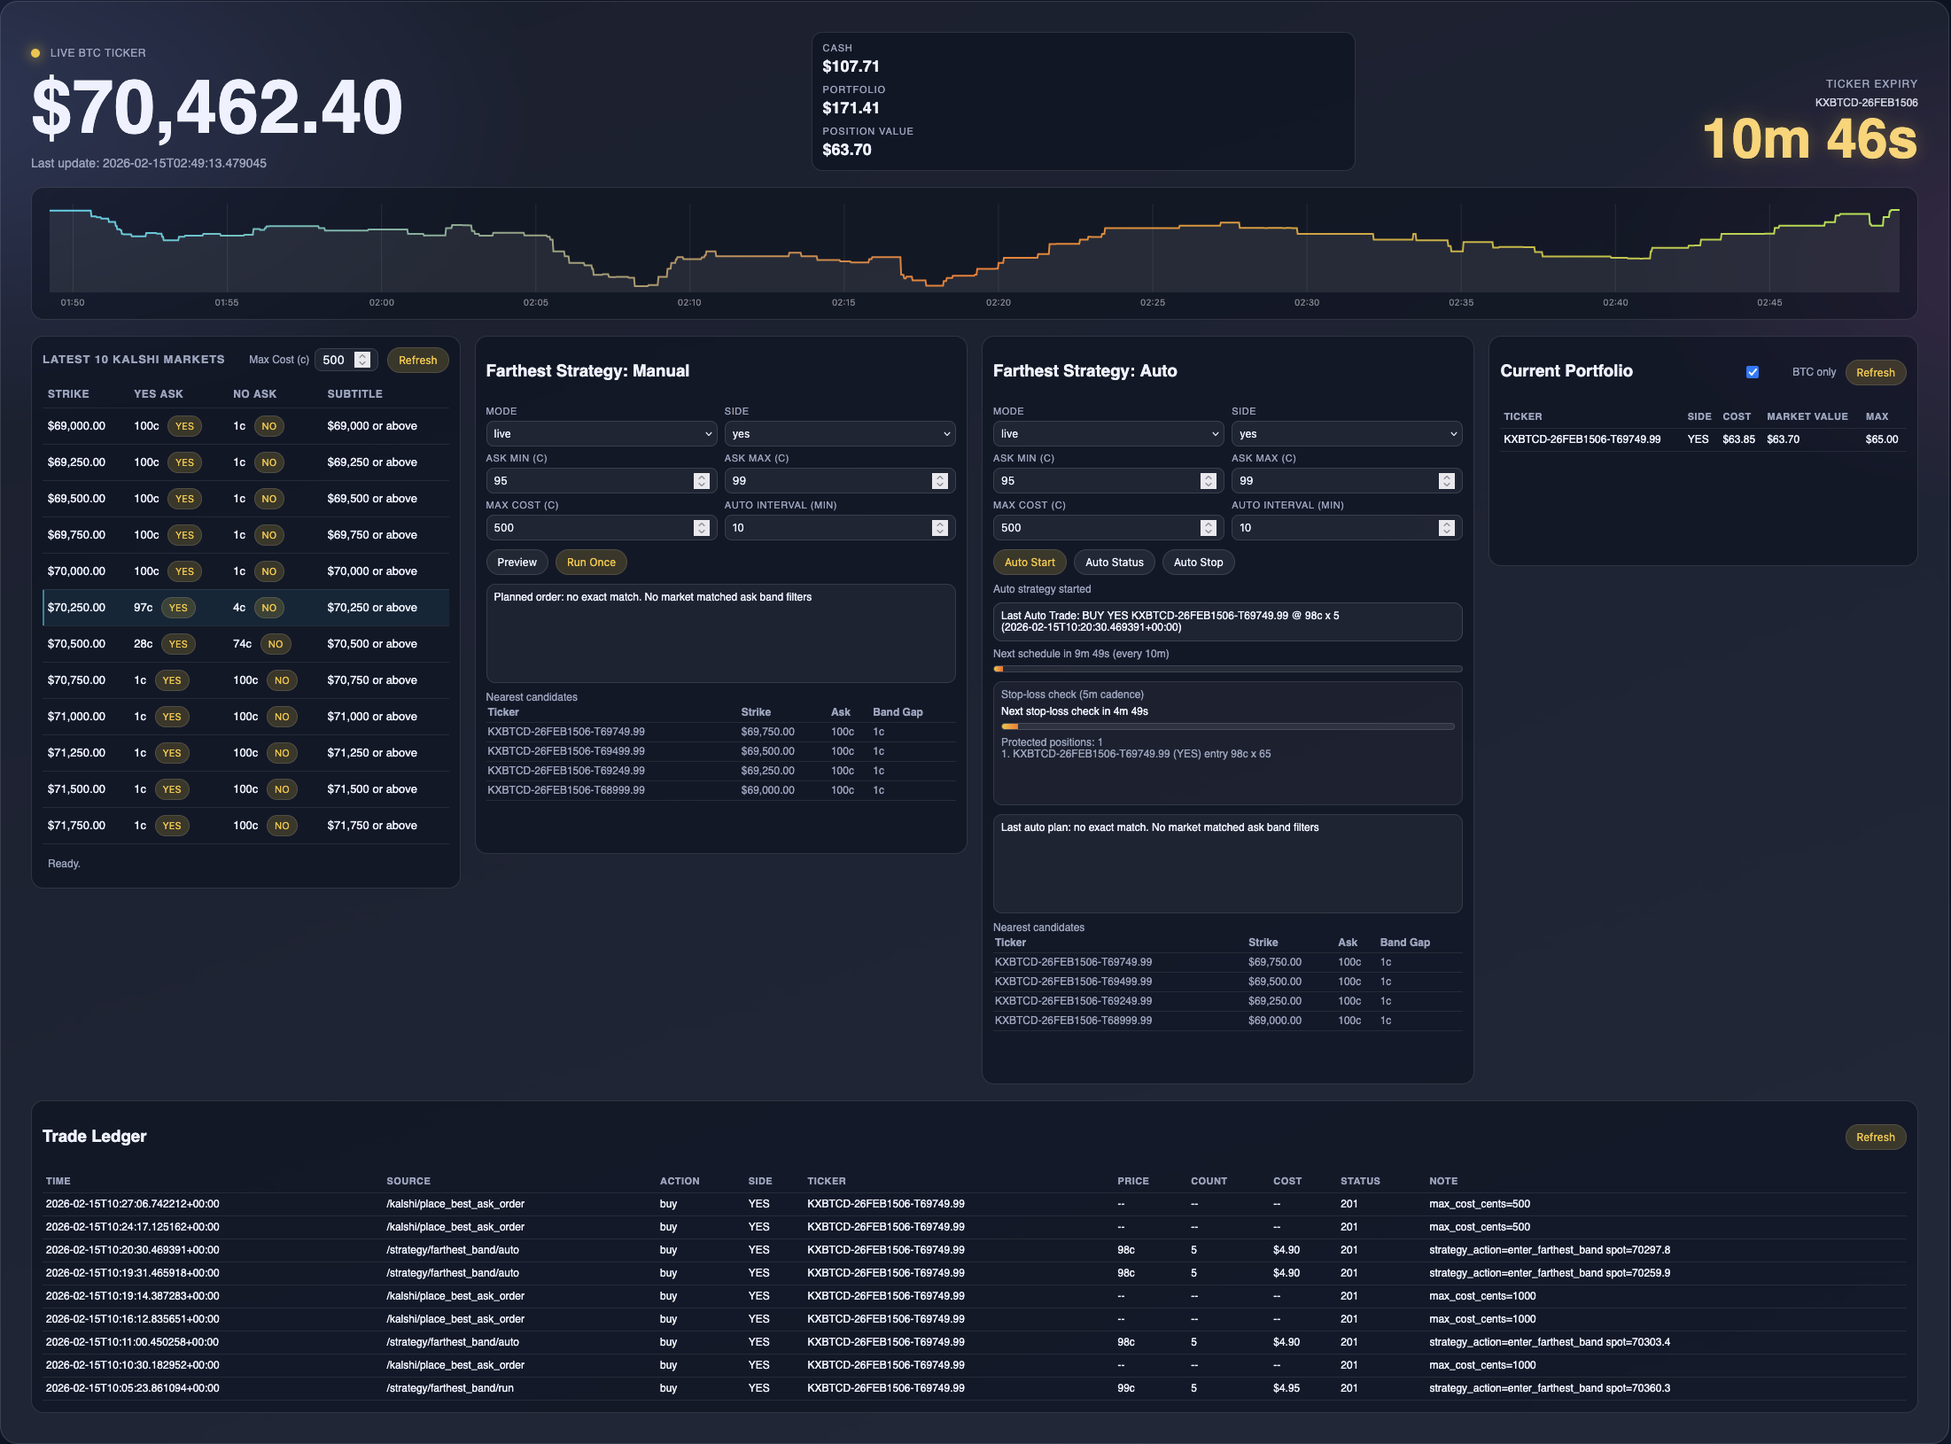
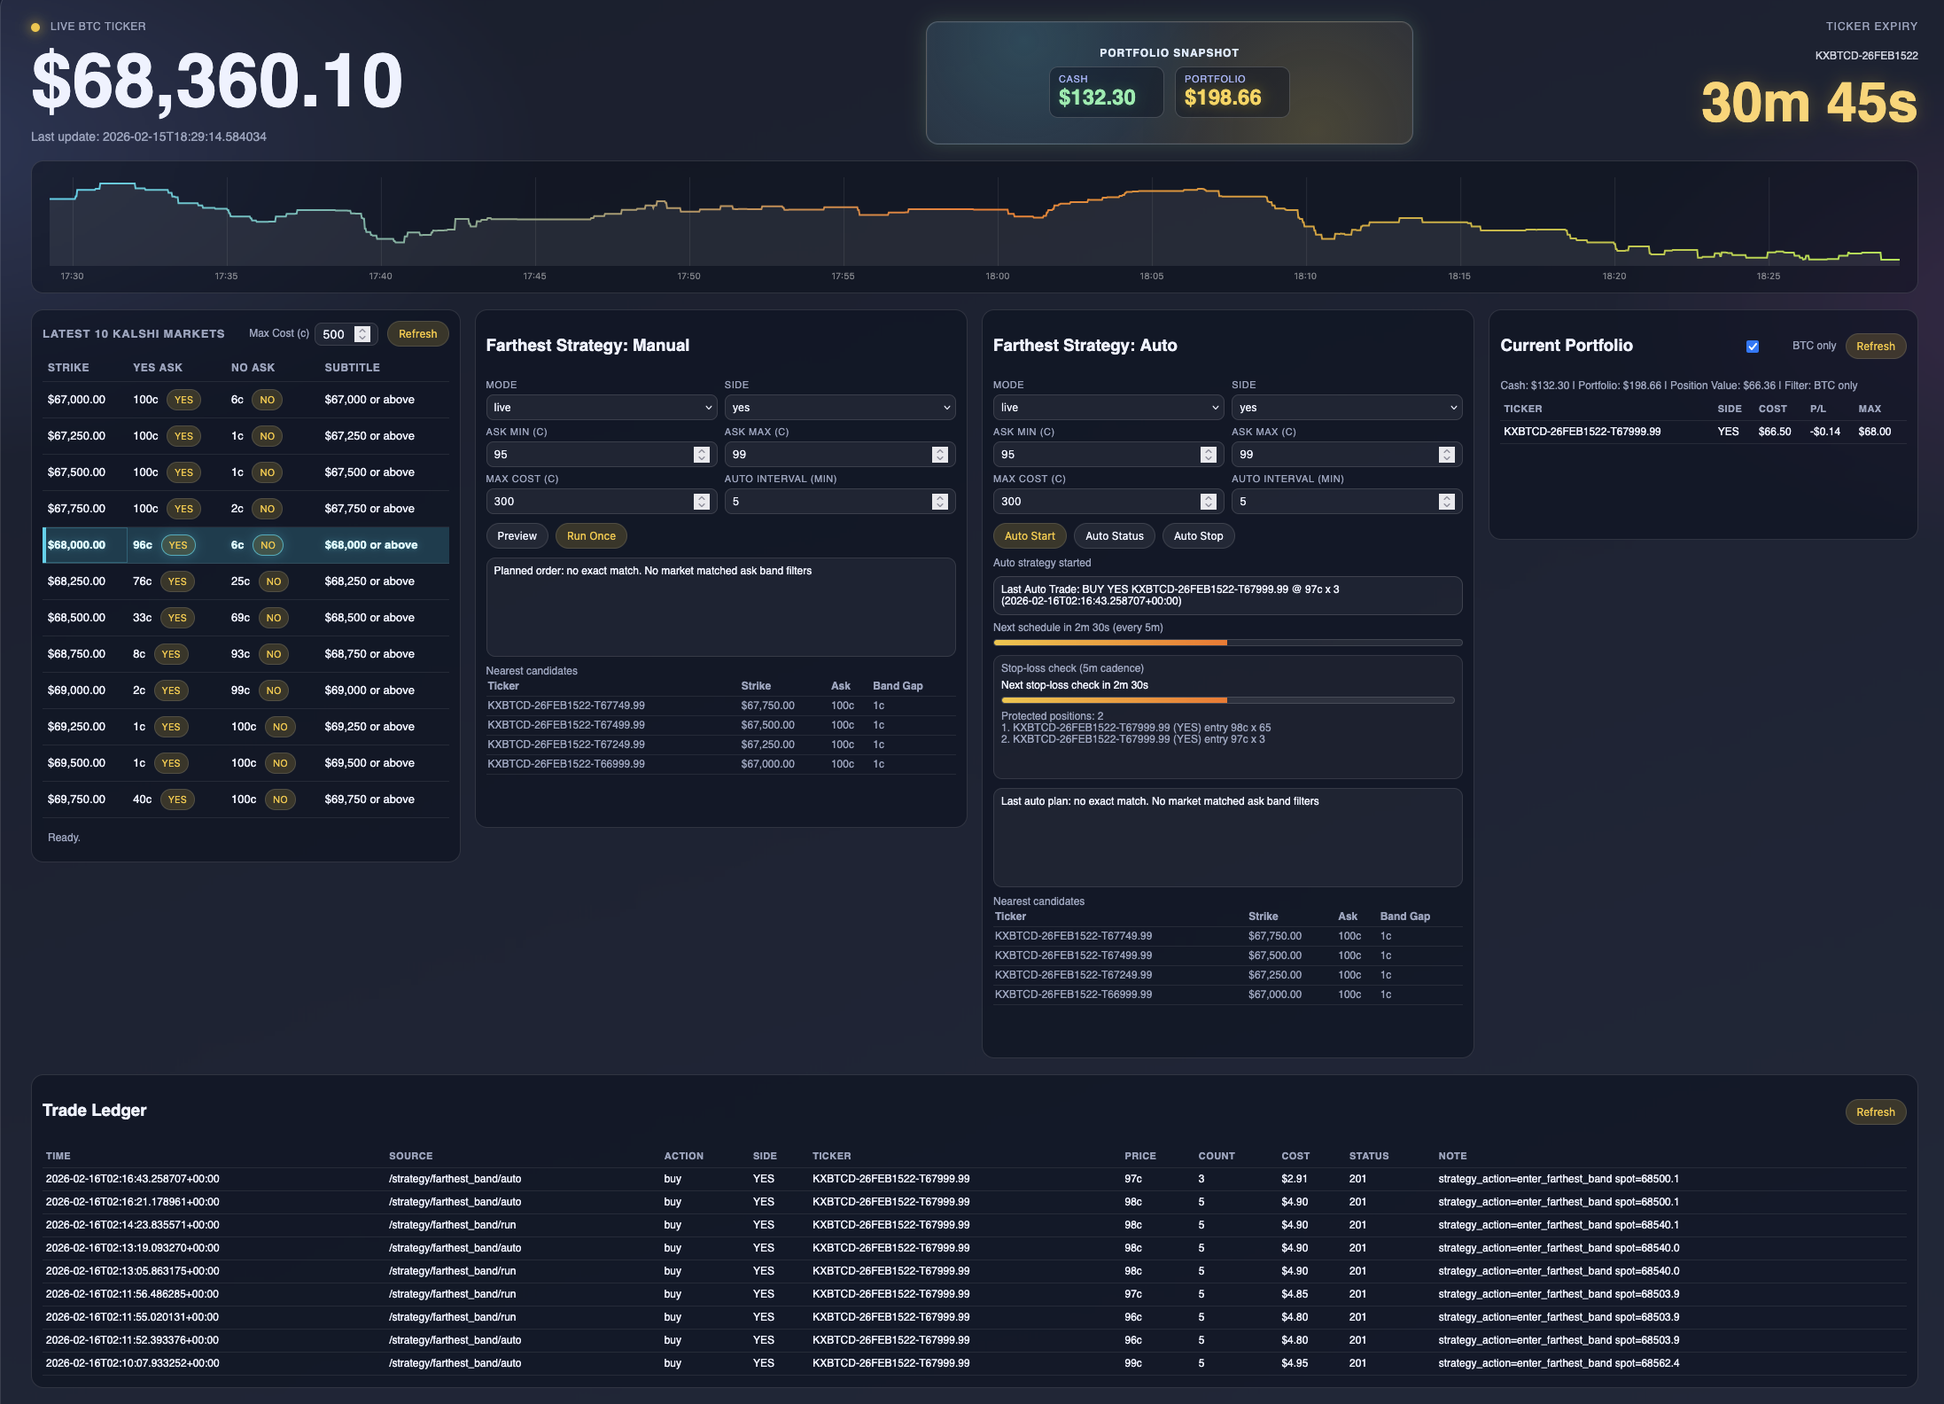
feat: Enforce Stop loss at market price

diff --git a/src/api.py b/src/api.py
@@ -1424,9 +1424,70 @@ def dashboard():
       }
       .hero {
         display: grid;
-        grid-template-columns: minmax(0, 1.8fr) minmax(0, 1fr);
+        grid-template-columns: minmax(0, 1.8fr) minmax(0, 1fr) minmax(0, 1fr);
         gap: 20px;
-        align-items: end;
+        align-items: stretch;
+      }
+      .hero-balance {
+        display: grid;
+        align-content: center;
+        justify-items: center;
+        gap: 8px;
+        background:
+          radial-gradient(circle at 20% 15%, rgba(34, 211, 238, 0.18), transparent 50%),
+          radial-gradient(circle at 80% 90%, rgba(250, 204, 21, 0.16), transparent 48%),
+          rgba(255, 255, 255, 0.05);
+        border: 1px solid rgba(255, 255, 255, 0.2);
+        border-radius: 14px;
+        padding: 16px 18px;
+        min-height: 120px;
+        box-shadow:
+          inset 0 0 0 1px rgba(255, 255, 255, 0.04),
+          0 0 20px rgba(34, 211, 238, 0.12),
+          0 0 24px rgba(250, 204, 21, 0.1);
+      }
+      .hero-balance-label {
+        color: #dbeafe;
+        font-size: 12px;
+        text-transform: uppercase;
+        letter-spacing: 0.08em;
+        font-weight: 700;
+      }
+      .hero-balance-values {
+        display: flex;
+        gap: 12px;
+        align-items: baseline;
+        flex-wrap: wrap;
+        justify-content: center;
+      }
+      .hero-balance-item {
+        display: grid;
+        gap: 2px;
+        padding: 8px 10px;
+        border-radius: 10px;
+        border: 1px solid rgba(255, 255, 255, 0.18);
+        background: rgba(8, 16, 32, 0.45);
+        min-width: 130px;
+      }
+      .hero-balance-key {
+        color: #a5b4fc;
+        font-size: 11px;
+        text-transform: uppercase;
+        letter-spacing: 0.06em;
+      }
+      .hero-balance-val {
+        color: #e2e8f0;
+        font-size: 24px;
+        font-weight: 700;
+        line-height: 1.1;
+      }
+      #hero-cash {
+        color: #86efac;
+        text-shadow: 0 0 14px rgba(34, 197, 94, 0.32);
+      }
+      #hero-portfolio {
+        color: #fcd34d;
+        text-shadow: 0 0 16px rgba(250, 204, 21, 0.35);
       }
       .expiry-card {
         display: grid;
@@ -1675,10 +1736,17 @@ def dashboard():
         margin-left: 6px;
       }
       .markets tr.row-hot td {
-        background: rgba(34, 211, 238, 0.08);
+        background: rgba(34, 211, 238, 0.2);
+        color: #d8fbff;
+        font-weight: 700;
+        text-shadow: 0 0 8px rgba(34, 211, 238, 0.35);
       }
       .markets tr.row-hot td:first-child {
-        box-shadow: inset 2px 0 0 rgba(34, 211, 238, 0.55);
+        box-shadow: inset 4px 0 0 #22d3ee, inset 0 0 0 1px rgba(34, 211, 238, 0.25);
+      }
+      .markets tr.row-hot td .btn.trade {
+        border-color: rgba(34, 211, 238, 0.7);
+        box-shadow: 0 0 12px rgba(34, 211, 238, 0.25);
       }
       .markets tr.row-pending td {
         background: rgba(244, 196, 48, 0.12);
@@ -1845,6 +1913,7 @@ def dashboard():
       @media (max-width: 520px) {
         .card { padding: 22px; }
         .hero { grid-template-columns: 1fr; }
+        .hero-balance { justify-items: start; }
         .expiry-card { justify-items: start; }
         .top-panels {
           grid-template-columns: 1fr;
@@ -1869,6 +1938,19 @@ def dashboard():
               </div>
               <div id="price" class="price">$--</div>
               <div id="ts" class="sub">Last update: --</div>
+            </div>
+            <div class="hero-balance">
+              <div class="hero-balance-label">Portfolio Snapshot</div>
+              <div class="hero-balance-values">
+                <div class="hero-balance-item">
+                  <div class="hero-balance-key">Cash</div>
+                  <div id="hero-cash" class="hero-balance-val">$--</div>
+                </div>
+                <div class="hero-balance-item">
+                  <div class="hero-balance-key">Portfolio</div>
+                  <div id="hero-portfolio" class="hero-balance-val">$--</div>
+                </div>
+              </div>
             </div>
             <div class="expiry-card">
               <div class="expiry-label">Ticker Expiry</div>
@@ -2101,6 +2183,8 @@ def dashboard():
       const tsEl = document.getElementById("ts");
       const eventExpiryEl = document.getElementById("event-expiry");
       const eventTickerNameEl = document.getElementById("event-ticker-name");
+      const heroCashEl = document.getElementById("hero-cash");
+      const heroPortfolioEl = document.getElementById("hero-portfolio");
       const canvas = document.getElementById("chart");
       const ctx = canvas.getContext("2d");
       const chartTooltipEl = document.getElementById("chart-tooltip");
@@ -2338,18 +2422,32 @@ def dashboard():
 
       function extractTradeErrorText(data, fallbackStatus) {
         const statusTxt = fallbackStatus ? `HTTP ${fallbackStatus}` : "HTTP error";
+        const objectToMsg = (obj) => {
+          if (!obj || typeof obj !== "object") return "";
+          const msg = obj.error || obj.message || obj.detail || obj.reason || obj.title;
+          const code = obj.error_code || obj.code || obj.status || obj.status_code;
+          if (msg && code) return `${code}: ${msg}`;
+          if (msg) return String(msg);
+          try { return JSON.stringify(obj); } catch (_) { return ""; }
+        };
         if (!data) return statusTxt;
-        if (data.error) return `${statusTxt}${data.stage ? ` [${data.stage}]` : ""}: ${String(data.error)}`;
+        if (data.error) {
+          const errMsg = (typeof data.error === "object") ? objectToMsg(data.error) : String(data.error);
+          return `${statusTxt}${data.stage ? ` [${data.stage}]` : ""}: ${(errMsg || "Unknown error").slice(0, 220)}`;
+        }
         if (data.raw_response && String(data.raw_response).trim()) {
           return `${statusTxt}: ${String(data.raw_response).trim().slice(0, 220)}`;
         }
         const body = data.response;
         if (typeof body === "string" && body.trim()) return `${statusTxt}: ${body.trim().slice(0, 220)}`;
         if (body && typeof body === "object") {
-          const msg = body.error || body.message || body.detail || body.reason;
-          const code = body.error_code || body.code;
-          if (msg && code) return `${statusTxt} ${code}: ${msg}`;
-          if (msg) return `${statusTxt}: ${String(msg)}`;
+          const nestedError = (typeof body.error === "object") ? body.error : null;
+          if (nestedError) {
+            const nestedMsg = objectToMsg(nestedError);
+            if (nestedMsg) return `${statusTxt}: ${nestedMsg.slice(0, 220)}`;
+          }
+          const msg = objectToMsg(body);
+          if (msg) return `${statusTxt}: ${msg.slice(0, 220)}`;
           try { return `${statusTxt}: ${JSON.stringify(body).slice(0, 220)}`; } catch (_) {}
         }
         if (data.status_code) return `HTTP ${data.status_code}`;
@@ -2846,6 +2944,8 @@ def dashboard():
           const cash = formatCents(cashCents);
           const portfolio = formatCents(portfolioDisplayCents);
           const positionValue = formatCents(positionValueCents);
+          if (heroCashEl) heroCashEl.textContent = cash;
+          if (heroPortfolioEl) heroPortfolioEl.textContent = portfolio;
           portfolioSummaryEl.textContent = `Cash: ${cash} | Portfolio: ${portfolio} | Position Value: ${positionValue}${btcOnly ? " | Filter: BTC only" : ""}`;
 
           if (!orders.length) {
@@ -2870,6 +2970,8 @@ def dashboard():
           }).join("");
           portfolioBody.innerHTML = rows;
         } catch (err) {
+          if (heroCashEl) heroCashEl.textContent = "$--";
+          if (heroPortfolioEl) heroPortfolioEl.textContent = "$--";
           portfolioSummaryEl.textContent = "Failed to load portfolio.";
           portfolioBody.innerHTML = "<tr><td colspan=\\"5\\">Error loading orders.</td></tr>";
         }

diff --git a/src/strategy/farthest_band.py b/src/strategy/farthest_band.py
@@ -305,7 +305,13 @@ def _enter_position(client: KalshiClient, selection: dict, config: FarthestBandC
     }
 
 
-def _exit_position(client: KalshiClient, active_position: dict, config: FarthestBandConfig, reason: str) -> dict:
+def _exit_position(
+    client: KalshiClient,
+    active_position: dict,
+    config: FarthestBandConfig,
+    reason: str,
+    market_like: bool = False,
+) -> dict:
     side = str(active_position.get("side") or "").lower()
     count = int(active_position.get("count") or 0)
     if side not in {"yes", "no"} or count < 1:
@@ -313,7 +319,9 @@ def _exit_position(client: KalshiClient, active_position: dict, config: Farthest
 
     top = client.get_top_of_book(active_position["ticker"])
     bid_cents = top.get(f"{side}_bid")
-    if bid_cents is None:
+    # For stop-loss we want market-like behavior: sell at executable bid only.
+    # For other exits we keep legacy ask fallback.
+    if bid_cents is None and not market_like:
         bid_cents = top.get(f"{side}_ask")
     if bid_cents is None or int(bid_cents) < 1:
         return {"action": "hold", "reason": "No bid/mark available to exit", "top_of_book": top}
@@ -397,8 +405,15 @@ def run_farthest_band_cycle(
 
         mark_state = _mark_price_and_pnl(client, active)
         pnl_pct = mark_state.get("pnl_pct")
-        if pnl_pct is not None and pnl_pct <= -stop_loss_pct:
-            exit_result = _exit_position(client, active, config, reason="stop_loss_exit")
+        # Trigger only when loss is strictly greater than stop_loss_pct.
+        if pnl_pct is not None and pnl_pct < -stop_loss_pct:
+            exit_result = _exit_position(
+                client,
+                active,
+                config,
+                reason="stop_loss_exit",
+                market_like=True,
+            )
             if exit_result.get("action") == "hold":
                 return {
                     "action": "hold_active",

diff --git a/README.md b/README.md
@@ -7,23 +7,39 @@ The core objective is to evolve from signal collection into automated, risk-awar
 ## Dashboard
 ![Dashboard 1](Dashboard.png)
 
-The dashboard shows:
-- Live BTC price and timestamp
-- Last hour price curve
-- High/low stats
-- Latest Kalshi markets for the current event
-- One-click YES/NO buttons per market with a configurable max cost (cents)
-- Current portfolio panel with balance and open positions (cost, P/L, max payout) and refresh button
-- Two farthest-band strategy panels (side by side on desktop):
-  - `Farthest Strategy: Manual` for Preview + Run Once
-  - `Farthest Strategy: Auto` for Auto Start/Status/Stop and schedule progress
-  - Both panels expose the same config controls (`mode`, `side`, ask band, max cost, interval) and stay synchronized
-  - Manual and Auto each have separate plan/candidate output boxes
-  - Auto panel includes next-schedule countdown, progress bar, and last auto trade badge
-  - 1-second preview refresh updates probable next order continuously
-- Trade Ledger panel:
-  - Shows recent buy/sell calls from direct and strategy routes
-  - Includes a dedicated refresh button to reload latest entries
+The dashboard includes:
+- Live BTC price, timestamp, event ticker, and large expiry countdown.
+- Top-middle portfolio snapshot (Cash + Portfolio) beside BTC/expiry.
+- Compact BTC trend graph with hover tooltip (time + price).
+- `Latest 10 Kalshi Markets` panel:
+  - One-click YES/NO order buttons.
+  - Configurable `Max Cost (c)`.
+  - Bright row highlighting for rows where YES ask is in the 90-99c band.
+  - Inline error/success status with per-row pending/error/success highlighting.
+- Four top panels in one row on desktop:
+  - `Latest 10 Kalshi Markets`
+  - `Farthest Strategy: Manual`
+  - `Farthest Strategy: Auto`
+  - `Current Portfolio`
+- `Farthest Strategy: Manual`:
+  - `Preview` + `Run Once`.
+  - Planned order and nearest-candidates output.
+- `Farthest Strategy: Auto`:
+  - `Auto Start`, `Auto Status`, `Auto Stop`.
+  - Next scheduled-run countdown + progress bar.
+  - Stop-loss schedule panel (next risk check + protected positions).
+  - Last auto trade badge.
+  - Planned order and nearest-candidates output.
+- `Current Portfolio`:
+  - BTC-only filter toggle.
+  - Auto-refresh every 3 seconds.
+  - Per-position table (side/cost/P/L/max) and summary.
+- `Trade Ledger`:
+  - Recorded buy/sell legs from direct order route and strategy paths.
+  - Includes source, mode, action, price/count/cost, status, and note.
+- `P/L Summary (All Orders)`:
+  - Realized/unrealized/net/fees totals.
+  - Per-market breakdown from historical fills/orders.
 
 
 ## Highlights
@@ -32,6 +48,8 @@ The dashboard shows:
 - Continuous ingest pipeline with SQLite storage.
 - FastAPI service with JSON endpoints and a built-in dashboard.
 - Persistent trade ledger in SQLite for buy/sell calls (timestamp, price, side, ticker, status, payload).
+- Strategy auto state with seeded active positions from live portfolio.
+- FIFO-style realized/unrealized/net P/L summary from historical orders.
 
 ## Requirements
 - Python 3.11+
@@ -73,10 +91,10 @@ Notes:
 
 ### 4) Run the API server + dashboard
 ```bash
-python -m src.api
+python3 -m src.api
 ```
 - This continuously writes market snapshots to `data/kalshi_ingest.db` (once per second) and prunes data older than 24 hours.
-- Then open:- `http://localhost:8090/dashboard`
+- Then open: `http://localhost:8090/dashboard`
 
 ## API Endpoints
 - `GET /get_price_ticker`
@@ -93,6 +111,9 @@ python -m src.api
   - Returns current orders (filter with `status`, `ticker`, `limit`).
 - `GET /kalshi/portfolio/current`
   - Returns portfolio balance and current positions/orders with estimated cost, mark-based P/L, and max payout.
+- `GET /kalshi/pnl/summary`
+  - Aggregates order history into buys/sells/fees plus realized, unrealized, and net P/L.
+  - Includes per-market breakdown and diagnostics (`orders_considered`, `fills_count`, etc.).
 - `GET /kalshi/portfolio/positions_debug`
   - Returns raw positions payload plus a small sample for debugging field mappings.
 - `GET /strategy/farthest_band/preview?side=yes|no&ask_min_cents=95&ask_max_cents=99&max_cost_cents=500`
@@ -101,13 +122,14 @@ python -m src.api
 - `GET /strategy/farthest_band/run?side=yes|no&ask_min_cents=95&ask_max_cents=99&max_cost_cents=500&mode=paper|live`
   - Executes one strategy cycle immediately.
   - `mode=paper` returns planned action only; `mode=live` places a real order.
-  - If an active tracked position is down `25%` or more, it exits and attempts to rebuy a farther strike.
+  - If an active tracked position loss is greater than `25%`, it exits and attempts to rebuy a farther strike.
 - `GET /strategy/farthest_band/run?side=yes|no&ask_min_cents=95&ask_max_cents=99&max_cost_cents=500&mode=paper|live&force_new_order=1`
   - Forces a fresh entry on run-once (ignores currently tracked active position state).
 - `GET /strategy/farthest_band/auto/start?side=yes|no&ask_min_cents=95&ask_max_cents=99&max_cost_cents=500&mode=paper|live&interval_minutes=15`
   - Starts background auto-execution on interval (default 15 minutes).
-  - Auto cycles apply the same `-25%` stop-loss exit-and-rotate behavior.
-  - Stop-loss evaluation runs every 5 minutes while auto mode is active; new scheduled entries still follow `interval_minutes`.
+  - Seeds strategy-tracked active positions from live portfolio (matching latest event prefix/tickers).
+  - Auto cycles apply the same stop-loss exit-and-rotate behavior.
+  - Stop-loss/risk evaluation cadence is `min(5 minutes, time to next scheduled run)`.
   - Scheduled interval runs add a new entry when a candidate exists, without selling the current active position.
   - Sells happen only on stop-loss or ticker rollover.
 - `GET /strategy/farthest_band/auto/status`
@@ -122,11 +144,12 @@ python -m src.api
 
 ## Stop-Loss Behavior
 - Threshold:
-  - Triggered when unrealized PnL is `<= -25%` from entry price.
+  - Triggered when unrealized PnL is strictly below `-25%` from entry price (`loss > 25%`).
   - PnL formula: `(mark_price_cents - entry_price_cents) / entry_price_cents`.
 - Mark source:
-  - YES positions use `yes_bid` (fallback `yes_ask`).
-  - NO positions use `no_bid` (fallback `no_ask`).
+  - YES positions use `yes_bid`.
+  - NO positions use `no_bid`.
+  - If bid is unavailable, stop-loss mark is treated conservatively as `0`.
 - `Preview`:
   - Selection only, no orders, no stop-loss actions.
 - `Run Once`:
@@ -135,9 +158,10 @@ python -m src.api
   - With `force_new_order=1`, ignores active tracked state and enters fresh immediately.
 - `Auto`:
   - Scheduled interval runs follow `interval_minutes`.
-  - Stop-loss checks run every 5 minutes while auto is active.
+  - Stop-loss checks run on risk cadence (`min(5m, time-to-next-schedule)`).
   - On scheduled runs, can add new entries without closing existing positions.
-  - On stop-loss trigger, exits active position and re-enters a farther candidate.
+  - On stop-loss trigger, exits active position at market-like executable bid and re-enters a farther candidate.
+  - Re-entry excludes the same ticker and enforces farther distance than the exited strike.
   - On hourly event rollover, exits stale ticker and re-enters from latest ingest markets.
 - Entry selection risk filters:
   - Default ask band is `95-99c`.
@@ -148,6 +172,7 @@ python -m src.api
 - Visibility:
   - Every buy/sell leg (run, auto, and direct order route) is written to `trade_ledger`.
   - Use `GET /ledger/trades` or the dashboard Trade Ledger panel to verify actions.
+  - Use `GET /kalshi/pnl/summary` for aggregate realized/unrealized/net P/L.
 
 
 ## Repository Layout
